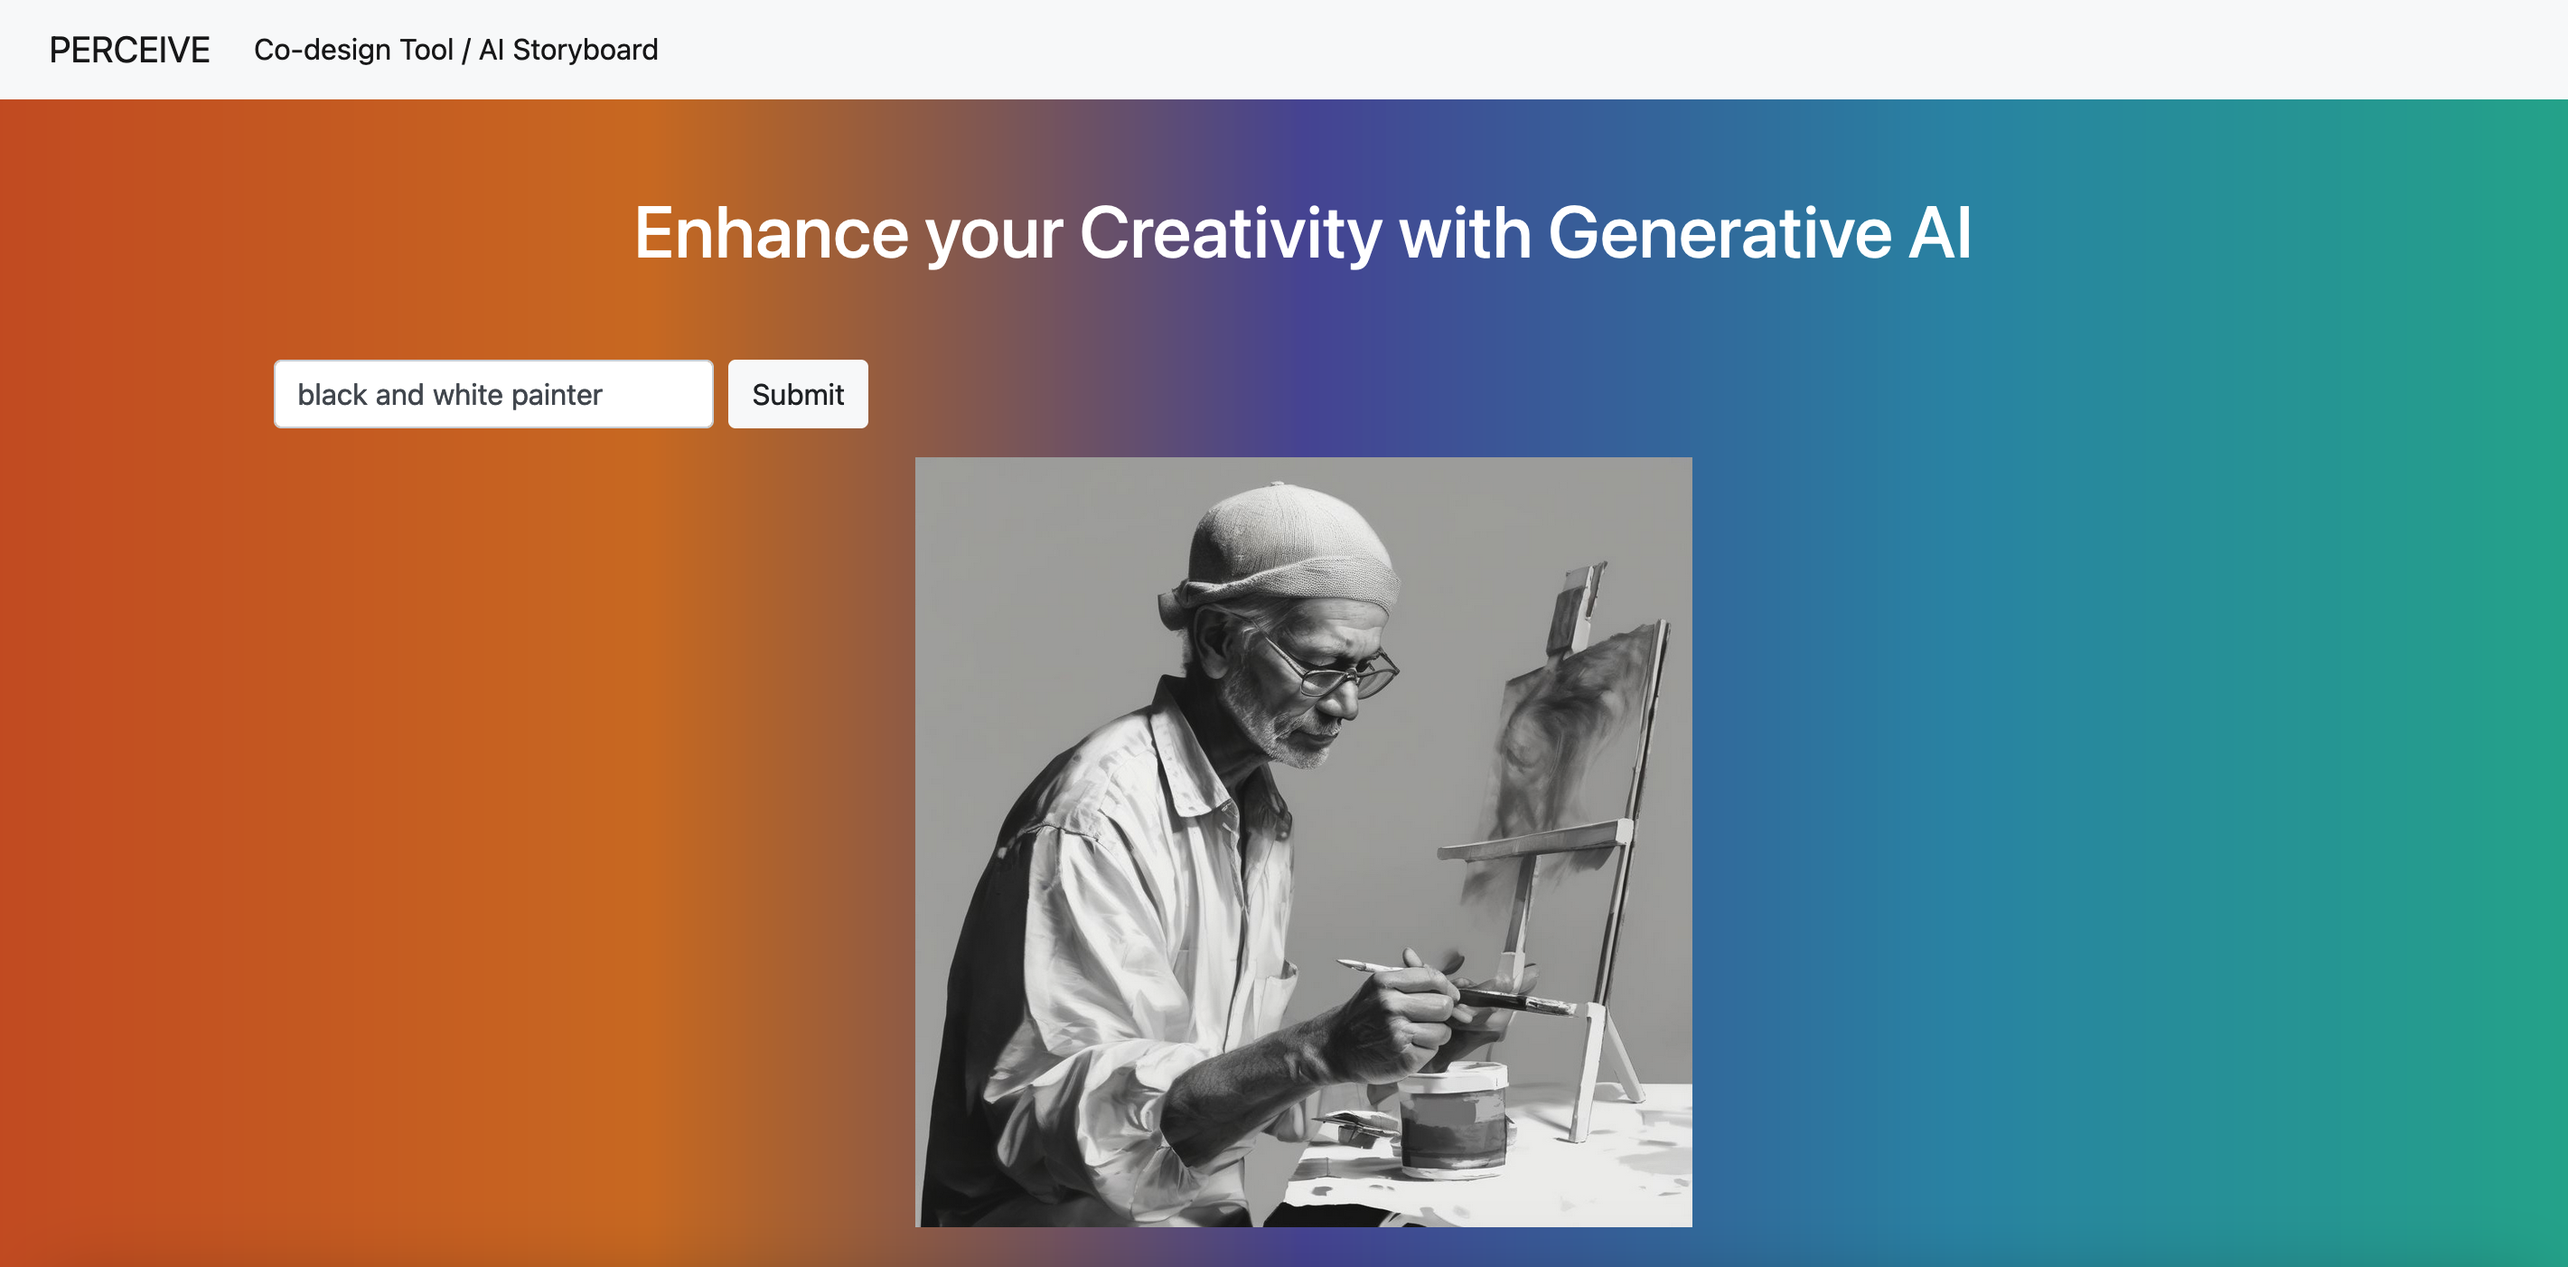
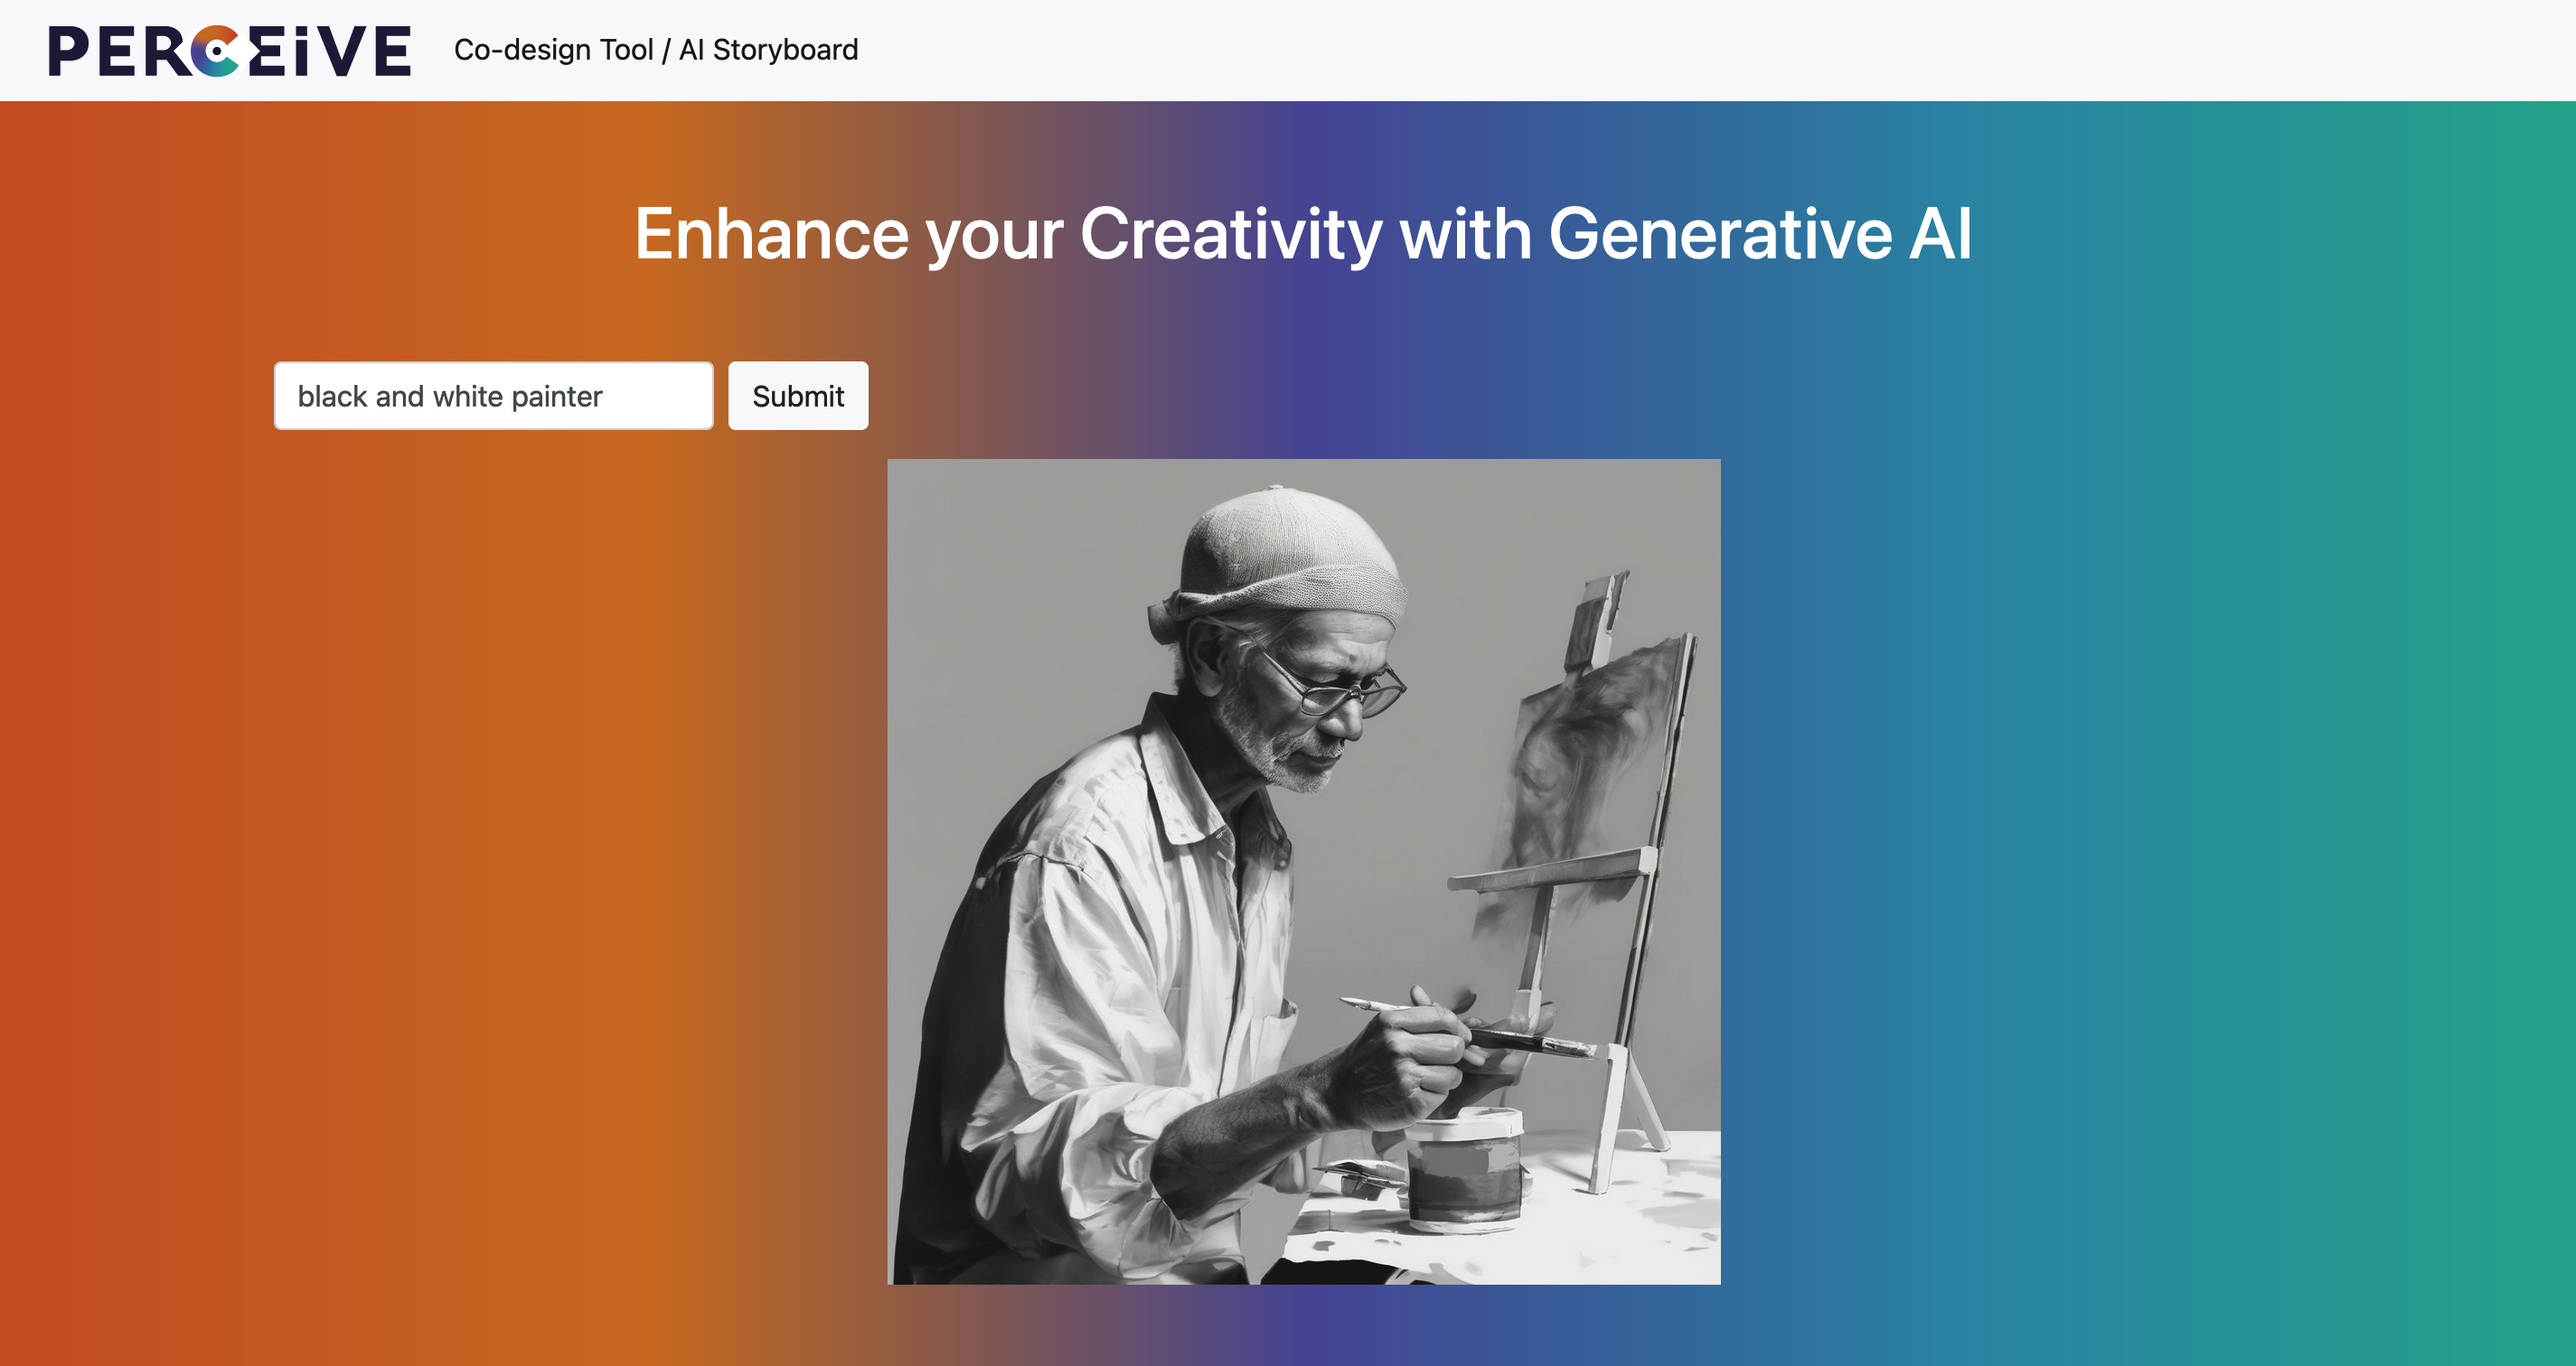
update preview

diff --git a/templates/index.html b/templates/index.html
@@ -28,7 +28,9 @@
         <!-- Container wrapper -->
         <div class="container-fluid">
             <!-- Navbar brand -->
-            <a class="navbar-brand" href="http://perceive-horizon.eu/">PERCEIVE</a>
+            <a class="navbar-brand" href="http://perceive-horizon.eu/">
+                <img src="http://perceive-horizon.eu/wp-content/uploads/2023/02/Fichier-2@2x.png" style="max-width: 200px;">
+            </a>
 
             <!-- Toggle button -->
             <button class="navbar-toggler" type="button" data-mdb-toggle="collapse"

diff --git a/app.py b/app.py
@@ -32,3 +32,12 @@ def submit():
 
 if __name__ == '__main__':
     app.run(debug=True)
+
+# Up to now, the complexity on the code does not justify the implementation of a Flask app.
+# On the contrary, this skeleton and the implementation of a GenAI algorithm in the notebook,
+# may be combined to create a working web app: the function to generate the image will indeed
+# replace the current get_image function
+
+# For now the biggest issue is to find an online GPU to run the GenAI algorithm:
+# a local deployment is not feasible due to the lack of computational resources
+# and is not compatible with the requirements of the project.
